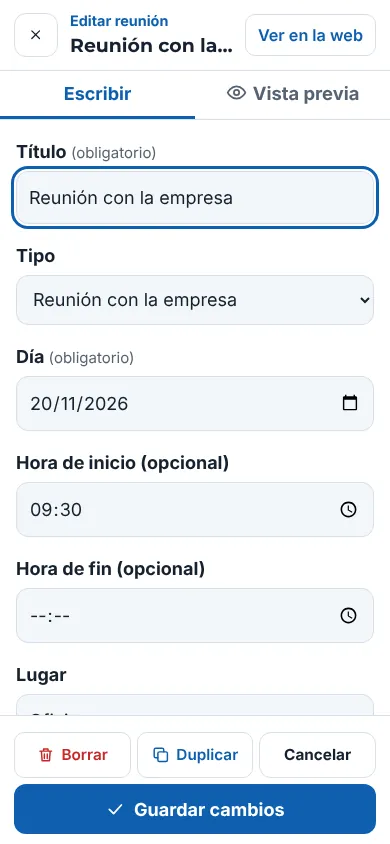
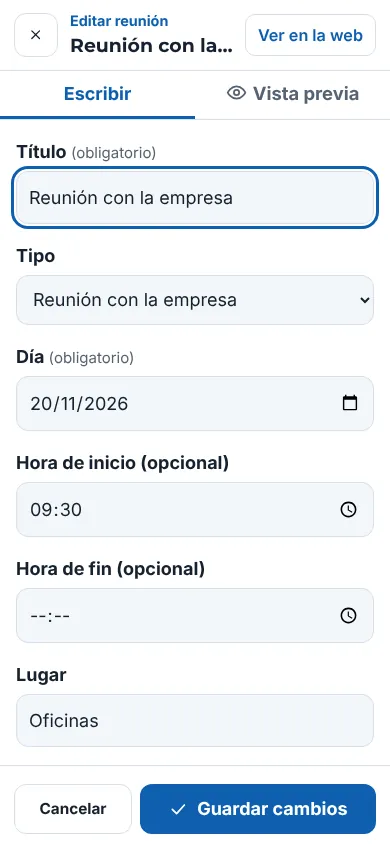
Panel v23: arreglos de la auditoría visual (pie del editor, «Nuevo», correos y clase aviso)
- Móvil: pie del editor en una fila («Cancelar» y «Publicar»); «Duplicar» y «Borrar» al final del formulario
- Inicio: la tarjeta de mensajes sin leer usa .pendiente (la clase .aviso pintaba la raya de carretera); igual en Peticiones
- Los correos de Ajustes y Papelera solo se parten por la @ o el punto
- El botón «Nuevo» no sale en Ajustes, Textos, Papelera, Cartel ni Peticiones
- Guía y capturas al día; panel.cjs (64) y humo.cjs en verde

Claude-Session: https://claude.ai/code/session_011SdsLKzTmFSpwPz2orkjvZ

diff --git a/admin.js b/admin.js
@@ -244,6 +244,8 @@
   const icDe = (k, i) => i || SECCIONES[k]?.ic || "documento";
 
   // ================== UTILIDADES ==================
+  // Un correo solo se parte por la @ o por un punto, nunca letra a letra
+  const correoHTML = (e) => `<span class="correo">${esc(e).replace(/@/g, "<wbr>@").replace(/\./g, ".<wbr>")}</span>`;
   const resumen = (t, n = 110) => { t = String(t || "").replace(/\*\*/g, "").replace(/\s+/g, " ").trim(); return t.length > n ? t.slice(0, n - 1) + "…" : t; };
   let toastT;
   // Los avisos en rojo (algo ha fallado) se quedan más tiempo, para que dé tiempo a leerlos
@@ -474,7 +476,8 @@
     actual = k;
     if (location.hash.slice(1) !== k) history.replaceState(null, "", "#" + k);
     marcaMenu(k);
-    $("fab").hidden = k === "peticiones"; // aquí no se publica nada: el botón «Nuevo» estorbaría
+    // Donde no se crea nada (Pedir un cambio, Ajustes, Textos, Papelera, Cartel) el botón «Nuevo» estorbaría y taparía lo de abajo
+    $("fab").hidden = ["peticiones", "accesos", "textos", "papelera", "cartel"].includes(k);
     cierraHoja();
     window.scrollTo(0, 0);
     $("zona").innerHTML = '<div class="esq"></div><div class="esq"></div>';
@@ -618,7 +621,7 @@
           <p>¿Qué quieres publicar hoy?</p>
         </div>
         <div class="hola-resumen">
-          <a href="#buzon" class="hola-dato${PEND_BUZON ? " aviso" : ""}">${icono("mensaje")}<b>${buz.error ? "–" : PEND_BUZON}</b><span>${PEND_BUZON === 1 ? "mensaje sin leer" : "mensajes sin leer"}</span></a>
+          <a href="#buzon" class="hola-dato${PEND_BUZON ? " pendiente" : ""}">${icono("mensaje")}<b>${buz.error ? "–" : PEND_BUZON}</b><span>${PEND_BUZON === 1 ? "mensaje sin leer" : "mensajes sin leer"}</span></a>
           ${(() => { const r = (reu.data || [])[0]; if (reu.error) return `<a href="#reuniones" class="hola-dato">${icono("calendario")}<b>–</b><span>reuniones</span></a>`; if (!r) return `<a href="#reuniones" class="hola-dato">${icono("calendario")}<b>–</b><span>sin reuniones en 14 días</span></a>`;
             const dias = Math.round((fechaDia(r.fecha) - fechaDia(hoyISO())) / 86400000);
             return `<button type="button" class="hola-dato" data-editar-en="reuniones:${r.id}">${icono("calendario")}<b>${dias === 0 ? "Hoy" : dias === 1 ? "Mañana" : dias + " días"}</b><span>${esc(r.titulo)}</span></button>`; })()}
@@ -990,8 +993,18 @@
   };
   // Campos que se enseñan: unos solo al crear (avisar al publicar) y otros solo al editar (avisar del cambio)
   const camposDe = (S) => S.campos.filter(([, , , o = {}]) => ED.orig ? !o.soloNuevo : !o.soloEditar);
+  // Visual A8: en el móvil, «Borrar» y «Duplicar» van al final del formulario (lejos de «Publicar») y el pie
+  // queda en una fila: «Cancelar» y «Publicar». Se mueven los mismos botones, así siguen sus avisos y candados.
+  const MOVIL_ED = matchMedia("(max-width: 520px)");
+  const colocaAcciones = () => {
+    const pie = document.querySelector(".ed-pie"), caja = $("ed-acciones-form");
+    if (MOVIL_ED.matches && caja && ED?.orig) { caja.append($("ed-duplicar"), $("ed-borrar")); caja.hidden = false; }
+    else { pie.prepend($("ed-borrar"), $("ed-duplicar")); if (caja) caja.hidden = true; }
+  };
+  MOVIL_ED.addEventListener?.("change", colocaAcciones);
   const abrirEditor = (k, x, { duplicando = false, foco = "", despues = null, vuelve = null } = {}) => {
     const S = SECCIONES[k];
+    document.querySelector(".ed-pie").prepend($("ed-borrar"), $("ed-duplicar")); // antes de rehacer el formulario, que no se pierdan
     // vuelve: a dónde va el foco al cerrar (la fila que se abrió); despues: algo que hacer solo si se guarda bien
     ED = { k, orig: duplicando ? null : x, adj: x?.adjuntos ? [...x.adjuntos] : [], foto: duplicando ? null : (x?.foto || null), subidos: [], quitados: [], sucio: duplicando,
       guardando: false, despues, vuelve: vuelve || document.activeElement };
@@ -1006,7 +1019,7 @@
       if (asis) asis.insertAdjacentHTML("afterend", h); else $("ed-form").insertAdjacentHTML("afterbegin", h);
     }
     // En el móvil la vista previa está en otra pestaña: un botón grande al final para verla antes de publicar
-    $("ed-form").insertAdjacentHTML("beforeend", `<button type="button" class="btn sec ver-previa" data-ver-previa>${icono("ojo")}Ver cómo quedará en la web</button>`);
+    $("ed-form").insertAdjacentHTML("beforeend", `<button type="button" class="btn sec ver-previa" data-ver-previa>${icono("ojo")}Ver cómo quedará en la web</button><div class="ed-acciones-form" id="ed-acciones-form" hidden></div>`);
     // ¿Quedó un borrador sin guardar de la otra vez?
     const bo = duplicando ? null : leeBorrador(claveBorrador());
     if (bo) {
@@ -1021,6 +1034,7 @@
     pintaAdj();
     $("ed-borrar").hidden = !ED.orig; $("ed-borrar").innerHTML = icono("borrar") + "Borrar";
     $("ed-duplicar").hidden = !ED.orig; $("ed-duplicar").innerHTML = icono("duplicar") + "Duplicar";
+    colocaAcciones();
     const ancla = ED.orig ? (S.ancla ? S.ancla + "-" + ED.orig.id : S.verWeb?.()) : "";
     $("ed-ver-web").hidden = !ancla; if (ancla) $("ed-ver-web").href = "./#" + ancla;
     estado($("ed-msg"), "");
@@ -1641,7 +1655,7 @@
       <div class="lista">${error ? `<p class="vacio">${esc(errTxt(error))}</p>` : data.map((p) => `
         <div class="tarjeta fila papelera-fila">
           <div class="fila-abre"><b>${esc((SECCIONES[p.tabla] ? tituloDe(SECCIONES[p.tabla], p.datos) : p.datos.titulo) || "Sin título")}</b>
-            <span class="fila-sub">Borrado ${esc(new Date(p.borrado).toLocaleString("es-ES", { day: "numeric", month: "long", hour: "2-digit", minute: "2-digit" }))}${p.por ? " por " + esc(p.por) : ""}</span>
+            <span class="fila-sub">Borrado ${esc(new Date(p.borrado).toLocaleString("es-ES", { day: "numeric", month: "long", hour: "2-digit", minute: "2-digit" }))}${p.por ? " por " + correoHTML(p.por) : ""}</span>
             <span class="chips-fila"><span class="chip-p">${esc(nombreTabla(p.tabla))}</span></span></div>
           <span class="papelera-btns"><button type="button" class="btn-linea" data-recuperar="${p.id}">${icono("recuperar")}Recuperar</button>
           <button type="button" class="btn-linea peligro" data-para-siempre="${p.id}">${icono("borrar")}Borrar para siempre</button></span>
@@ -1896,7 +1910,7 @@
     const { data, error } = await sb.from("peticiones_claude").select("id,creado,texto,adjuntos,estado,respuesta,mensajes,deshacer,version,propuesta,decision,decision_el,ficha,pasada_lorena,oculta_padre").order("id", { ascending: false }).limit(PET_LIMITE);
     if (!$("pet-hechas") || actual !== "peticiones") return;
     if (error) { z.innerHTML = `<p class="vacio">No se ha podido cargar: ${esc(errTxt(error))}</p>`; return; }
-    const burbuja = (m) => `<li class="pet-m ${m.quien === "claude" || m.quien === "lorena" ? "de-claude" : "de-padre"}${m.quien === "lorena" ? " de-lorena" : ""}${m.aviso ? " aviso" : ""}"><small>${m.quien === "claude" ? "Claude" : m.quien === "lorena" ? "Lorena" : "Tú"} · ${esc(horaPet(m.cuando))}</small>${m.texto ? `<div class="pet-texto">${textoHTML(m.texto)}</div>` : ""}${adjPet(m.adjuntos)}</li>`;
+    const burbuja = (m) => `<li class="pet-m ${m.quien === "claude" || m.quien === "lorena" ? "de-claude" : "de-padre"}${m.quien === "lorena" ? " de-lorena" : ""}${m.aviso ? " es-aviso" : ""}"><small>${m.quien === "claude" ? "Claude" : m.quien === "lorena" ? "Lorena" : "Tú"} · ${esc(horaPet(m.cuando))}</small>${m.texto ? `<div class="pet-texto">${textoHTML(m.texto)}</div>` : ""}${adjPet(m.adjuntos)}</li>`;
     const filas = data || [], abiertas = new Set(petLee("comite-adm-pet-abiertas", [])), vistos = petLee("comite-adm-pet-vistos", {});
     const deClaude = (x) => (Array.isArray(x.mensajes) ? x.mensajes : []).filter((m) => m.quien === "claude").length;
     const item = (x) => {
@@ -2133,7 +2147,7 @@
       <div class="lista" id="lista-admins">${error ? `<p class="vacio">${esc(errTxt(error))}</p>` : data.map((a) => `
         <div class="tarjeta admin-fila" data-admin="${esc(a.email)}">
           <div class="admin-cab">
-            <div class="fila-abre"><b>${esc(a.email)}</b><span class="fila-sub" data-estado-cuenta>${a.email.toLowerCase() === yo ? "Tú · " : ""}Comprobando la cuenta…</span></div>
+            <div class="fila-abre"><b>${correoHTML(a.email)}</b><span class="fila-sub" data-estado-cuenta>${a.email.toLowerCase() === yo ? "Tú · " : ""}Comprobando la cuenta…</span></div>
             <div class="admin-btns">
               <button type="button" class="btn-linea" data-poner-clave="${esc(a.email)}">${icono("candado")}Poner contraseña</button>
               ${a.email.toLowerCase() === yo ? "" : `<button type="button" class="btn-linea peligro" data-quitar-admin="${esc(a.email)}">${icono("borrar")}Quitar</button>`}

diff --git a/admin.css b/admin.css
@@ -187,15 +187,18 @@ button.fila-abre:hover b { color: var(--azul); }
 .ed-pie .btn { min-height: 50px; }
 @media (max-width: 520px) {
   /* v23: minmax(0, 1fr) y texto que puede partirse: con 320 px y letra muy grande, «Cancelar» se salía de la pantalla */
-  .ed-pie { display: grid; grid-template-columns: repeat(3, minmax(0, 1fr)); gap: 6px; }
+  /* Visual A8: una sola fila, «Cancelar» (1/3) y «Publicar» (2/3); «Borrar» y «Duplicar» van al final del formulario */
+  .ed-pie { display: grid; grid-template-columns: minmax(0, 1fr) minmax(0, 2fr); gap: 8px; }
   .ed-pie .btn-linea, .ed-pie .btn.sec { justify-content: center; padding: 8px 6px; min-height: 46px; font-size: .85rem; white-space: normal; text-align: center; line-height: 1.15; min-width: 0; }
   .ed-pie .estado { grid-column: 1 / -1; order: -1; min-height: 0; }
-  .ed-pie #ed-guardar { grid-column: 1 / -1; }
+  .ed-pie #ed-guardar { white-space: normal; line-height: 1.15; min-width: 0; }
+  .ed-pie #ed-cancelar, .ed-pie #ed-guardar { min-height: 50px; }
   .ed-pie [hidden] { display: none !important; }
-  /* Con letra grande no caben tres: Borrar y Duplicar arriba, Cancelar y Guardar a lo ancho */
-  :root[data-letra] .ed-pie { grid-template-columns: repeat(2, minmax(0, 1fr)); }
-  :root[data-letra] .ed-pie #ed-cancelar { grid-column: 1 / -1; }
 }
+.ed-acciones-form { display: flex; flex-wrap: wrap; gap: 10px; margin-top: 24px; padding-top: 16px; border-top: 1px dashed var(--borde); }
+.ed-acciones-form[hidden] { display: none; }
+.ed-acciones-form .btn-linea { flex: 1 1 9em; min-height: 48px; justify-content: center; }
+.ed-acciones-form #ed-borrar { margin-left: auto; }
 
 /* Archivos */
 .lista-adj { display: grid; gap: 6px; }
@@ -276,7 +279,7 @@ span.hola-dato { cursor: default; }
 .hola-dato .ico { width: 20px; height: 20px; color: var(--celeste); margin-bottom: 2px; }
 .hola-dato b { font-family: "Montserrat", sans-serif; font-size: 1.25rem; line-height: 1.1; }
 .hola-dato span { font-size: .74rem; color: rgba(255, 255, 255, .75); line-height: 1.25; overflow: hidden; text-overflow: ellipsis; display: -webkit-box; -webkit-line-clamp: 2; -webkit-box-orient: vertical; }
-.hola-dato.aviso { border-color: rgba(0, 198, 255, .6); background: rgba(0, 198, 255, .14); }
+.hola-dato.pendiente { border-color: rgba(0, 198, 255, .6); background: rgba(0, 198, 255, .14); }
 a.hola-dato:hover, button.hola-dato:hover { border-color: var(--celeste); }
 @media (min-width: 900px) {
   .hola-bloque { grid-template-columns: 1fr minmax(0, 1.1fr); align-items: center; padding: 26px 28px; }
@@ -409,7 +412,7 @@ details.pet-item.est-en_curso, details.pet-item.est-nueva { border-left: 5px sol
 .pet-m { display: grid; gap: 2px; padding: 8px 12px; border-radius: 12px; background: var(--fondo); border: 1px solid var(--borde); max-width: 92%; min-width: 0; }
 .pet-m.de-padre { justify-self: end; border-right: 4px solid var(--suave); }
 .pet-m.de-claude { justify-self: start; border-left: 4px solid var(--celeste); background: var(--azul-claro); }
-.pet-m.aviso { font-style: italic; }
+.pet-m.es-aviso { font-style: italic; }
 .pet-m small { color: var(--suave); font-weight: 700; }
 .pet-m p { margin: 0; }
 .pet-fotos { display: grid; gap: 8px; margin-top: 6px; }
@@ -539,3 +542,9 @@ details.pet-mas-info ul { padding-left: 20px; display: grid; gap: 4px; }
 .toast-btn { flex: none; min-height: 44px; padding: 6px 14px; border-radius: 10px; border: 2px solid #fff; background: transparent; color: #fff; font: inherit; font-weight: 800; cursor: pointer; }
 .toast-btn:focus-visible { outline: 3px solid #00C6FF; outline-offset: 2px; }
 .lista .vacio-caja .btn { margin-top: 6px; }
+
+/* Visual A11: el correo no se parte letra a letra: el texto pasa arriba y los botones debajo */
+.correo { overflow-wrap: break-word; word-break: normal; }
+.fila-abre b .correo { overflow-wrap: break-word; }
+.admin-cab .fila-abre, .papelera-fila .fila-abre { flex: 1 1 15em; }
+.admin-cab .fila-abre b { overflow-wrap: break-word; }

diff --git a/guia.html b/guia.html
@@ -191,7 +191,7 @@
     <h2><span class="num">11</span>Cambiar o borrar</h2>
     <ul>
       <li>Toca cualquier cosa de una lista para abrirla, cambia lo que quieras y pulsa <b>Guardar cambios</b>.</li>
-      <li><b>Borrar</b> está abajo a la izquierda del editor. Antes te pregunta.</li>
+      <li><b>Borrar</b> y <b>Duplicar</b>: en el móvil están al final del formulario (abajo del todo, lejos de «Guardar»); en el ordenador, abajo a la izquierda. Antes de borrar te pregunta.</li>
       <li>Justo después de borrar o de guardar un cambio, abajo sale un aviso con el botón <b>Deshacer</b> durante unos segundos: si te has equivocado, púlsalo y queda como antes. (Si ya se ha avisado a los móviles, el cambio no se puede deshacer así: ábrelo y cámbialo.)</li>
       <li>¿Borrado sin querer y ya no sale «Deshacer»? En <b>Papelera</b> está todo lo borrado durante 90 días: pulsa <b>Recuperar</b> y vuelve a la web tal cual.</li>
       <li><b>Borrar para siempre</b> (en la Papelera) es para cuando alguien retira su permiso: así no queda ni en la Papelera.</li>
